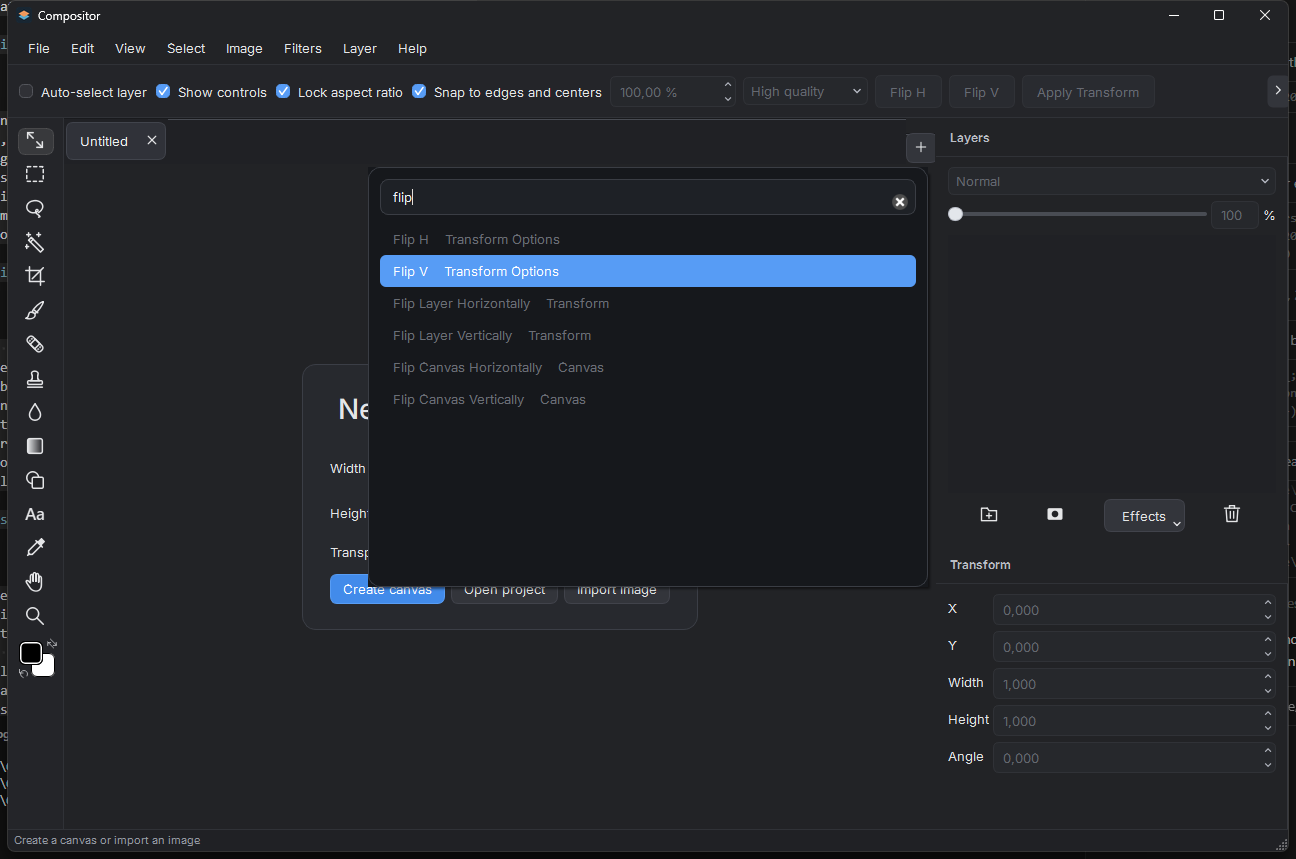
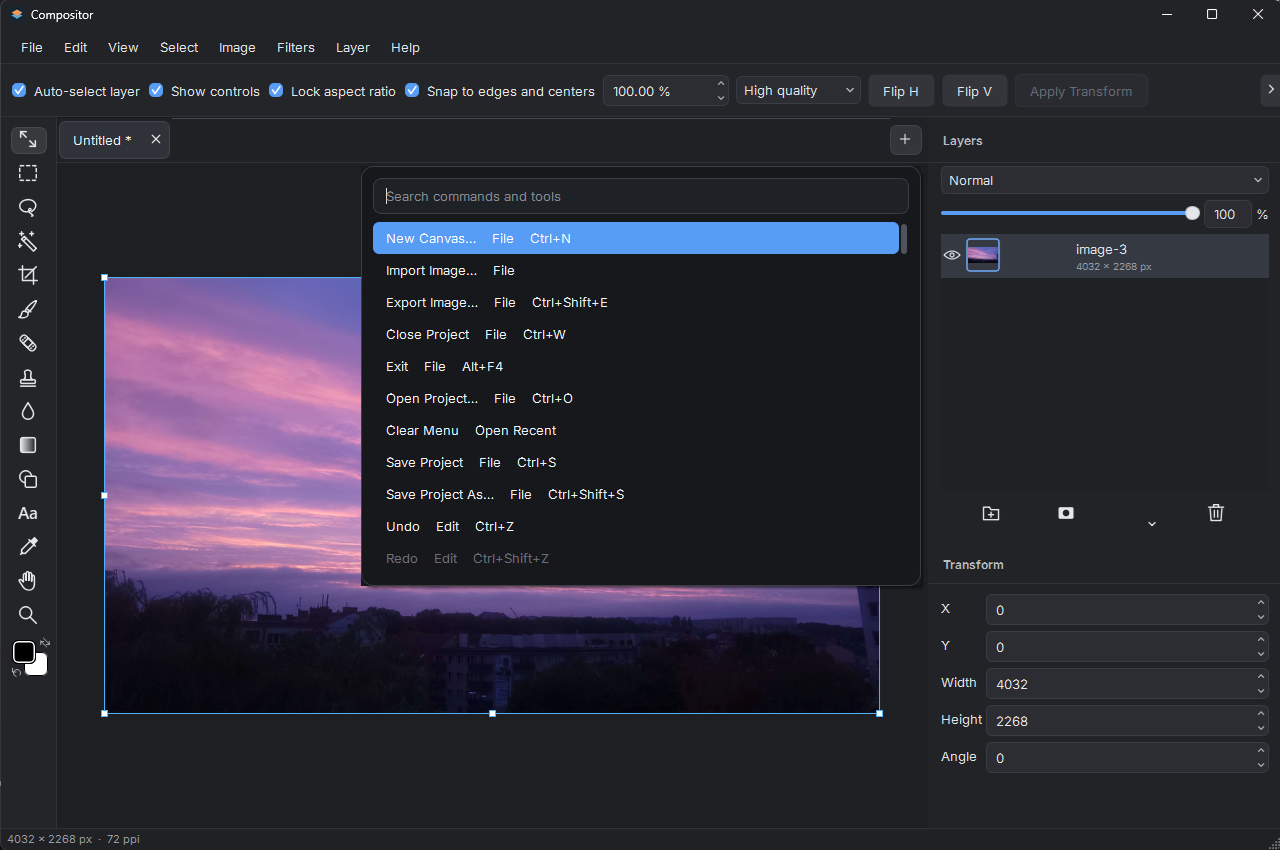
docs: ajout du développement RAW et mise à jour des captures du README
- Ajout de la mention du développement RAW avant import avec sa capture
- Ajout de la capture de la palette de commandes
- Mise à jour des captures de l'éditeur et de la palette de commandes

diff --git a/README.md b/README.md
@@ -28,11 +28,17 @@ Version 1.1.0 is the first build that reports its release number, and it moves t
 
 - **Start and navigate.** New canvas presets with print units and backgrounds, **File → Open Recent**, a command palette (**Ctrl+Shift+P**), a navigator mini-map, rulers and guides, a layout grid with snap targets, and canvas-only full screen (**F11**).
 - **Customize.** A keyboard shortcut editor in **Help → Keyboard Shortcuts**, and a daily check for new stable releases.
-- **Edit.** 90° canvas rotation, **Filters → Last Filter** (**Ctrl+Alt+F**), Color Balance and Black & White controls, restyled Camera Raw sliders with double-click reset, and RAW development before import.
+- **Edit.** 90° canvas rotation, **Filters → Last Filter** (**Ctrl+Alt+F**), Color Balance and Black & White controls, restyled Camera Raw sliders with double-click reset, and RAW development before import (see below).
 - **Photoshop files.** Editable PSD shapes, 16-bit RGB layers kept at 16 bits, and cropping of oversized or off-canvas layers.
 - **Save and export.** Background project saving, and one-page PDF export at the document's print size, next to PNG and JPEG.
 
-<img width="1024" alt="After the wind: a layered composition exported from Compositor" src="demo/After%20the%20wind.png" />
+**RAW files open in RAW Development first.** Set exposure, temperature, tint and noise reduction with a live preview before the photo becomes a layer.
+
+<img alt="RAW Development: exposure, temperature, tint and noise reduction with a live preview" src="https://github.com/user-attachments/assets/bd9ede35-20ae-4fc2-b840-41c6a69e54cf" />
+
+The command palette (**Ctrl+Shift+P**) finds every command and tool by name.
+
+<img width="1024" alt="The command palette listing commands with their shortcuts" src="docs/images/command-palette.png" />
 
 A project is a `.comp` folder. Copy or back up the whole folder. **File → Import Image**, the Save step of **Export Image**, and the first **Save Project** open Windows Explorer. **File → Open Project** and the welcome **Open project** button open the Windows folder picker in Downloads, and you can select one or more `.comp` folders. Export a flattened PNG, JPEG or one-page PDF when another application needs a single image.
 
